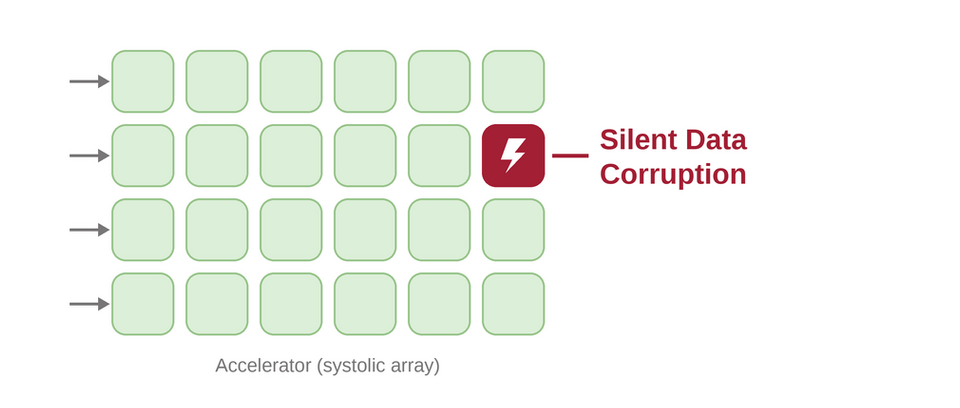
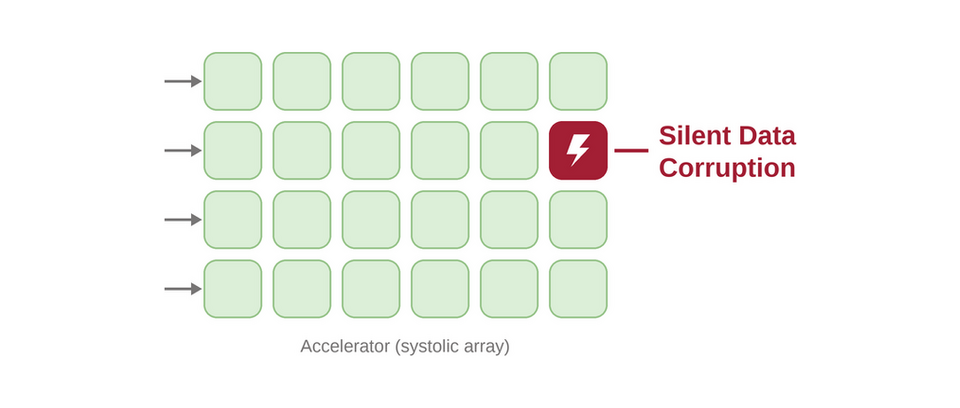
Deploying to gh-pages from @ AnubhavBhatla/AnubhavBhatla.github.io@274742f20c07c1406184dd31b3ad74bc98d83acc 🚀

Changed region(s): [[0.0625, 0.1176, 0.8438, 0.9118]]

diff --git a/preview_redesign.html b/preview_redesign.html
@@ -1893,7 +1893,17 @@ html {
 }
 
 .projects .card-item .card .row.g-0 {
-  align-items: flex-start;
+  align-items: stretch;
+}
+
+.projects .card-item .card-img {
+  display: flex;
+  align-items: center;
+  justify-content: center;
+}
+
+.projects .card-item .card-img img {
+  width: 100%;
 }
 
 .projects h2.category {
@@ -2226,12 +2236,15 @@ a {
 }
 
 .cv .card .list-group .list-group-item {
-  position: relative;
   border: 0;
   background: transparent;
+}
+
+.cv .card .list-group .list-group-item:not(:has(.row)) {
+  position: relative;
   padding: 0.4rem 0.5rem 0.4rem 1.5rem;
 }
-.cv .card .list-group .list-group-item::before {
+.cv .card .list-group .list-group-item:not(:has(.row))::before {
   content: "";
   position: absolute;
   left: 0.45rem;

diff --git a/assets/css/main.css b/assets/css/main.css
@@ -14,4 +14,4 @@
  * Font Awesome Free 6.4.0 by @fontawesome - https://fontawesome.com
  * License - https://fontawesome.com/license/free (Icons: CC BY 4.0, Fonts: SIL OFL 1.1, Code: MIT License)
  * Copyright 2023 Fonticons, Inc.
- */:root{--fa-style-family-classic:'Font Awesome 6 Free';--fa-font-regular:normal 400 1em/1 'Font Awesome 6 Free'}@font-face{font-family:"Font Awesome 6 Free";font-style:normal;font-weight:400;font-display:block;src:url("../webfonts/fa-regular-400.woff2") format("woff2"),url("../webfonts/fa-regular-400.ttf") format("truetype")}.far{font-weight:400}body{font-family:"Inter",-apple-system,"Segoe UI",Roboto,Helvetica,Arial,sans-serif;font-feature-settings:"cv02","cv03","cv04","cv11";-webkit-font-smoothing:antialiased;-moz-osx-font-smoothing:grayscale;letter-spacing:-0.003em}h1,h2,h3,h4,h5,h6,.post-title,.navbar-brand,.publications h1,.header-bar h1{font-family:"Lora",Georgia,"Times New Roman",serif;font-weight:600;letter-spacing:-0.01em}p,li,.desc,.more-info,.post-meta,.contact-note{font-family:"Inter",-apple-system,"Segoe UI",Roboto,sans-serif}p{line-height:1.7}html{scroll-behavior:smooth}::selection{background:rgba(163,31,52,.18)}::-webkit-scrollbar{width:10px;height:10px}::-webkit-scrollbar-track{background:rgba(0,0,0,0)}::-webkit-scrollbar-thumb{background:rgba(163,31,52,.4);border-radius:6px;border:2px solid rgba(0,0,0,0);background-clip:padding-box}::-webkit-scrollbar-thumb:hover{background:rgba(163,31,52,.65);background-clip:padding-box}@keyframes fadeUp{from{opacity:0;transform:translateY(18px)}to{opacity:1;transform:none}}@keyframes fadeIn{from{opacity:0}to{opacity:1}}.post{animation:fadeUp .6s cubic-bezier(0.22,0.61,0.36,1) both}.post-header{animation:fadeUp .6s cubic-bezier(0.22,0.61,0.36,1) both}.post-header{margin-bottom:1.75rem}.post-header .post-title{font-size:2.9rem;line-height:1.12;margin-bottom:.35rem}@media(max-width:576px){.post-header .post-title{font-size:2.2rem}}.post-header .post-title::after{content:"";display:block;width:60px;height:4px;margin-top:.7rem;background:var(--global-theme-color);border-radius:4px}.post-header .desc{font-family:"Inter",sans-serif;text-transform:uppercase;letter-spacing:.13em;font-size:.8rem;font-weight:500;color:var(--global-text-color-light);margin-top:.85rem}.profile img{border-radius:14px;box-shadow:0 0 0 1px rgba(163,31,52,.1),0 12px 30px rgba(0,0,0,.12);transition:transform .4s cubic-bezier(0.22,0.61,0.36,1),box-shadow .4s ease}.profile img:hover{transform:translateY(-5px) scale(1.01);box-shadow:0 0 0 1px rgba(163,31,52,.22),0 20px 44px rgba(0,0,0,.2)}.profile .more-info{font-family:"Inter",sans-serif!important;font-size:.8rem;letter-spacing:.02em;color:var(--global-text-color-light);margin-top:.75rem}.news{margin-top:.5rem}.news .table{width:100%;margin-bottom:0}.news .table tr{display:grid;grid-template-columns:104px 1fr;column-gap:18px;align-items:baseline;padding:14px 14px;border-radius:12px;border-bottom:1px solid var(--global-divider-color);transition:background-color .2s ease,transform .2s ease;animation:fadeUp .5s ease both}.news .table tr:hover{background-color:rgba(163,31,52,.05);transform:translateX(4px)}.news .table tr:last-child{border-bottom:0}.news .table th,.news .table td{border:0!important;padding:0;background:rgba(0,0,0,0);vertical-align:baseline}.news .table th[scope=row]{font-family:"Inter",sans-serif;font-weight:600;font-size:.72rem;line-height:1.5;letter-spacing:.04em;text-transform:uppercase;color:var(--global-theme-color);white-space:nowrap;position:relative;padding-left:16px}.news .table th[scope=row]::before{content:"";position:absolute;left:0;top:.45em;width:7px;height:7px;border-radius:50%;background:var(--global-theme-color);box-shadow:0 0 0 3px rgba(163,31,52,.15)}.news .table td{font-size:.95rem;line-height:1.55;color:var(--global-text-color)}.news .table tr:nth-child(1){animation-delay:.06s}.news .table tr:nth-child(2){animation-delay:.12s}.news .table tr:nth-child(3){animation-delay:.18s}.news .table tr:nth-child(4){animation-delay:.24s}.news .table tr:nth-child(5){animation-delay:.3s}.news .table tr:nth-child(6){animation-delay:.36s}.news-more{margin-top:.6rem;text-align:right;font-size:.85rem;font-weight:500}.news-more a{color:var(--global-theme-color);text-decoration:none}.news-more a:hover{text-decoration:underline}.card{border:1px solid var(--global-divider-color);border-radius:14px;overflow:hidden;box-shadow:0 1px 3px rgba(0,0,0,.05);transition:transform .32s cubic-bezier(0.22,0.61,0.36,1),box-shadow .32s ease}.card img{transition:transform .5s cubic-bezier(0.22,0.61,0.36,1)}.card:hover{transform:translateY(-6px);box-shadow:0 18px 38px rgba(0,0,0,.16)}.card:hover img{transform:scale(1.045)}.cv .card:hover{transform:none;box-shadow:0 10px 26px rgba(0,0,0,.1)}.cv .card:hover img{transform:none}.card .card-title{font-family:"Lora",Georgia,serif}.projects .card-item .card .row.g-0{align-items:flex-start}.projects h2.category{font-family:"Inter",sans-serif;text-transform:uppercase;letter-spacing:.1em;font-size:.9rem;font-weight:600;color:var(--global-text-color-light);border-bottom:1px solid var(--global-divider-color)}.publications ol.bibliography li{padding:1rem 1rem;border-radius:12px;transition:background-color .2s ease,box-shadow .2s ease}.publications ol.bibliography li:hover{background-color:rgba(163,31,52,.04);box-shadow:inset 3px 0 0 var(--global-theme-color)}.publications ol.bibliography li .title{font-family:"Lora",Georgia,serif;font-weight:600}.publications h1{letter-spacing:-0.01em}.navbar{opacity:1!important;background-color:hsla(0,0,100%,.72)!important;-webkit-backdrop-filter:saturate(180%) blur(12px);backdrop-filter:saturate(180%) blur(12px);border-bottom:1px solid var(--global-divider-color);box-shadow:0 2px 20px rgba(0,0,0,.04);transition:background-color .3s ease,box-shadow .3s ease}html[data-theme=dark] .navbar{background-color:rgba(28,28,29,.72)!important}.navbar-brand{font-weight:600;letter-spacing:-0.01em}.navbar.navbar-light .navbar-nav .nav-item .nav-link{position:relative;transition:color .2s ease}.navbar.navbar-light .navbar-nav .nav-item .nav-link::after{content:"";position:absolute;left:.5rem;right:.5rem;bottom:3px;height:2px;border-radius:2px;background:var(--global-theme-color);transform:scaleX(0);transform-origin:left center;transition:transform .25s cubic-bezier(0.22,0.61,0.36,1)}.navbar.navbar-light .navbar-nav .nav-item .nav-link:hover::after,.navbar.navbar-light .navbar-nav .nav-item.active>.nav-link::after{transform:scaleX(1)}.social .contact-icons a{display:inline-block;transition:transform .2s ease}.social .contact-icons a:hover{transform:translateY(-3px)}a{transition:color .18s ease}.publications ol.bibliography li .links a.btn{border-radius:999px;font-size:.8rem;font-weight:500;transition:all .2s ease}.header-bar h1{font-size:3.2rem;color:var(--global-theme-color)}.header-bar h2{font-family:"Inter",sans-serif;font-weight:400;font-size:1.1rem;color:var(--global-text-color-light)}.tag-category-list ul{display:flex;flex-wrap:wrap;gap:8px;justify-content:center;align-items:center}.tag-category-list ul p{display:none}.tag-category-list ul li{display:inline-flex;align-items:center;padding:4px 14px;border:1px solid var(--global-divider-color);border-radius:999px;transition:background-color .2s ease,border-color .2s ease}.tag-category-list ul li:hover{border-color:var(--global-theme-color);background-color:rgba(163,31,52,.06)}.tag-category-list ul li a{color:var(--global-text-color);text-decoration:none}.tag-category-list ul li a:hover{color:var(--global-theme-color)}.post-list li{border:1px solid var(--global-divider-color);border-bottom:1px solid var(--global-divider-color);border-radius:14px;background-color:var(--global-card-bg-color);padding:1.4rem 1.5rem;margin-bottom:1.25rem;box-shadow:0 1px 3px rgba(0,0,0,.04);transition:transform .28s cubic-bezier(0.22,0.61,0.36,1),box-shadow .28s ease,border-color .28s ease}.post-list li:hover{transform:translateY(-4px);box-shadow:0 16px 34px rgba(0,0,0,.12);border-color:rgba(163,31,52,.35)}.post-list li h3{margin-top:0}.post-list li a.post-title{font-family:"Lora",Georgia,serif;font-size:1.5rem;color:var(--global-text-color)}.post-list li a.post-title:hover{color:var(--global-theme-color)}.post-list li .post-meta{font-family:"Inter",sans-serif}.course-grid{display:grid;grid-template-columns:repeat(auto-fill,minmax(258px,1fr));gap:1rem;margin:2rem 0}.course-card{position:relative;border:1px solid var(--global-divider-color);border-radius:14px;background-color:var(--global-card-bg-color);padding:1.3rem 1.4rem 1.3rem 1.6rem;overflow:hidden;box-shadow:0 1px 3px rgba(0,0,0,.04);transition:transform .28s cubic-bezier(0.22,0.61,0.36,1),box-shadow .28s ease,border-color .28s ease}.course-card::before{content:"";position:absolute;left:0;top:0;bottom:0;width:4px;background:var(--global-theme-color)}.course-card:hover{transform:translateY(-4px);box-shadow:0 16px 32px rgba(0,0,0,.12);border-color:rgba(163,31,52,.3)}.course-card .course-year{display:inline-block;font-family:"Inter",sans-serif;font-weight:600;font-size:.7rem;letter-spacing:.05em;text-transform:uppercase;color:var(--global-theme-color);background:rgba(163,31,52,.08);border-radius:999px;padding:3px 10px;margin-bottom:.7rem}.course-card .course-code{font-family:"Inter",sans-serif;font-weight:600;font-size:.78rem;letter-spacing:.04em;color:var(--global-text-color-light);margin:0 0 .15rem}.course-card .course-name{font-family:"Lora",Georgia,serif;font-weight:600;font-size:1.12rem;line-height:1.25;margin:0 0 .6rem;color:var(--global-text-color)}.course-card .course-meta{font-family:"Inter",sans-serif;font-size:.82rem;color:var(--global-text-color-light);margin:0}.course-catalog{margin-top:1rem}.course-catalog hr{display:none}.course-catalog h2{font-family:"Lora",Georgia,serif;font-size:1.7rem;margin-top:2.25rem;margin-bottom:.5rem}.course-catalog h3{font-family:"Inter",sans-serif;text-transform:uppercase;letter-spacing:.08em;font-size:.92rem;font-weight:600;color:var(--global-text-color-light);margin-top:1.5rem;margin-bottom:.25rem}.course-catalog h4{font-family:"Inter",sans-serif;font-size:.82rem;font-weight:600;letter-spacing:.04em;color:var(--global-text-color-light);margin-top:1rem}.course-catalog ul{list-style:none;padding:0;margin:.6rem 0 0;display:grid;grid-template-columns:repeat(auto-fill,minmax(248px,1fr));gap:10px}.course-catalog ul li{border:1px solid var(--global-divider-color);border-radius:10px;background-color:var(--global-card-bg-color);padding:10px 14px;font-size:.88rem;line-height:1.4;transition:transform .2s ease,box-shadow .2s ease,border-color .2s ease}.course-catalog ul li:hover{transform:translateY(-2px);box-shadow:0 6px 16px rgba(0,0,0,.08);border-color:rgba(163,31,52,.4)}.course-catalog ul li a{font-weight:600;color:var(--global-theme-color);text-decoration:none}.course-catalog ul li a:hover{text-decoration:none}.cv .card .card-title{position:relative;font-size:1.35rem;padding-bottom:.5rem;margin-bottom:.85rem}.cv .card .card-title::after{content:"";position:absolute;left:0;bottom:0;width:42px;height:3px;border-radius:3px;background:var(--global-theme-color)}.cv ul.timeline li::before{background:var(--global-divider-color)}.cv .card ul.items{list-style:none;padding-left:1.3rem;margin-bottom:0}.cv .card ul.items>li{position:relative;margin-bottom:.4rem;line-height:1.55}.cv .card ul.items>li::before{content:"";position:absolute;left:-1.05rem;top:.62em;width:6px;height:6px;border-radius:50%;background:var(--global-theme-color)}.cv .card .list-group .list-group-item{position:relative;border:0;background:rgba(0,0,0,0);padding:.4rem .5rem .4rem 1.5rem}.cv .card .list-group .list-group-item::before{content:"";position:absolute;left:.45rem;top:.95em;width:6px;height:6px;border-radius:50%;background:var(--global-theme-color)}.skill-cards{display:grid;grid-template-columns:repeat(auto-fit,minmax(210px,1fr));gap:12px}.skill-card{border:1px solid var(--global-divider-color);border-radius:12px;background-color:var(--global-card-bg-color);padding:.9rem 1rem}.skill-card .skill-head{display:flex;align-items:center;gap:8px;font-family:"Lora",Georgia,serif;font-weight:600;color:var(--global-text-color);margin-bottom:.45rem}.skill-card .skill-head i{color:var(--global-theme-color)}.skill-card p{margin:0;font-size:.85rem;line-height:1.5;color:var(--global-text-color-light)}.profile .more-info .profile-location{display:block;margin:0 0 .65rem;text-align:center;font-size:.8rem;color:var(--global-text-color-light)}.profile-actions{display:flex;flex-wrap:wrap;gap:8px;justify-content:center}.profile-actions a{display:inline-flex;align-items:center;gap:6px;font-size:.8rem;font-weight:500;color:var(--global-theme-color);border:1px solid var(--global-theme-color);border-radius:999px;padding:5px 12px;text-decoration:none;transition:background-color .2s ease,color .2s ease}.profile-actions a:hover{background-color:var(--global-theme-color);color:#fff;text-decoration:none}.profile-actions a i{color:inherit}.ri-block{clear:both}.research-interests{display:grid;grid-template-columns:repeat(auto-fit,minmax(190px,1fr));gap:14px;margin:1.25rem 0 1.75rem}@media(max-width:576px){.research-interests{grid-template-columns:1fr}}.research-interests .ri-card{border:1px solid var(--global-divider-color);border-radius:14px;background-color:var(--global-card-bg-color);padding:1.15rem 1.15rem;box-shadow:0 1px 3px rgba(0,0,0,.04);transition:transform .28s cubic-bezier(0.22,0.61,0.36,1),box-shadow .28s ease,border-color .28s ease}.research-interests .ri-card:hover{transform:translateY(-4px);box-shadow:0 14px 30px rgba(0,0,0,.12);border-color:rgba(163,31,52,.3)}.research-interests .ri-icon{display:inline-flex;align-items:center;justify-content:center;width:40px;height:40px;border-radius:10px;background:rgba(163,31,52,.09);color:var(--global-theme-color);font-size:1.15rem;margin-bottom:.8rem}.research-interests .ri-icon i{color:var(--global-theme-color)}.research-interests .ri-title{display:block;font-family:"Lora",Georgia,serif;font-weight:600;font-size:1.02rem;line-height:1.25;color:var(--global-text-color)}.research-groups{clear:both;max-width:640px;margin:.5rem 0 1.25rem}.research-groups .rg-item{position:relative;padding:13px 0 13px 22px;border-bottom:1px solid var(--global-divider-color)}.research-groups .rg-item:last-child{border-bottom:0}.research-groups .rg-item::before{content:"▸";position:absolute;left:0;top:13px;color:var(--global-theme-color);font-size:.95rem;line-height:1.45}.research-groups .rg-name{font-size:1rem;line-height:1.45;color:var(--global-text-color)}.research-groups .rg-name a{font-weight:600;color:var(--global-theme-color);text-decoration:none}.research-groups .rg-name a:hover{text-decoration:underline}.research-groups .rg-meta{font-size:.82rem;color:var(--global-text-color-light);margin-top:2px}.research-groups .rg-meta a{color:var(--global-text-color-light);text-decoration:none}.research-groups .rg-meta a:hover{color:var(--global-theme-color)}.course-catalog ul li strong{color:var(--global-theme-color);font-weight:600}.publications ol.bibliography li .preview{border-radius:6px;transition:transform .3s cubic-bezier(0.22,0.61,0.36,1)}.publications ol.bibliography li:hover .preview{transform:scale(1.03)}footer.fixed-bottom .container,footer.sticky-bottom{font-family:"Inter",sans-serif;letter-spacing:.01em}.cv .table-cv .badge,.cv .badge-toc{background-color:var(--global-theme-color)!important;color:#fff!important;white-space:nowrap;min-width:0!important;font-size:.7rem;font-weight:600!important;letter-spacing:.02em;padding:.32rem .6rem;border-radius:6px;display:inline-block}.cv .card .list-group-item>.row{display:flex;flex-wrap:nowrap;align-items:flex-start}.cv .card .list-group-item>.row>.col-md-2.text-center{flex:0 0 auto;width:auto!important;max-width:none;min-width:100px;padding-right:0;text-align:left!important}.cv .card .list-group-item>.row>.col-md-10{flex:1 1 auto;max-width:none;margin-top:0!important}.error-page{text-align:center;padding:3.5rem 1rem 5rem}.error-page .error-code{font-family:"Lora",Georgia,serif;font-weight:700;font-size:7rem;line-height:1;color:var(--global-theme-color);margin-bottom:.5rem}.error-page .error-msg{font-size:1.15rem;color:var(--global-text-color-light);margin-bottom:1.75rem}.error-page .error-home{display:inline-block;font-weight:500;color:var(--global-theme-color);border:1px solid var(--global-theme-color);border-radius:999px;padding:8px 22px;text-decoration:none;transition:background-color .2s ease,color .2s ease}.error-page .error-home:hover{background-color:var(--global-theme-color);color:#fff;text-decoration:none}@media(prefers-reduced-motion:reduce){html{scroll-behavior:auto}*,*::before,*::after{animation-duration:.001ms!important;animation-delay:0!important;transition-duration:.001ms!important}.post,.post-header,.news .table tr{opacity:1!important;transform:none!important}}
+ */:root{--fa-style-family-classic:'Font Awesome 6 Free';--fa-font-regular:normal 400 1em/1 'Font Awesome 6 Free'}@font-face{font-family:"Font Awesome 6 Free";font-style:normal;font-weight:400;font-display:block;src:url("../webfonts/fa-regular-400.woff2") format("woff2"),url("../webfonts/fa-regular-400.ttf") format("truetype")}.far{font-weight:400}body{font-family:"Inter",-apple-system,"Segoe UI",Roboto,Helvetica,Arial,sans-serif;font-feature-settings:"cv02","cv03","cv04","cv11";-webkit-font-smoothing:antialiased;-moz-osx-font-smoothing:grayscale;letter-spacing:-0.003em}h1,h2,h3,h4,h5,h6,.post-title,.navbar-brand,.publications h1,.header-bar h1{font-family:"Lora",Georgia,"Times New Roman",serif;font-weight:600;letter-spacing:-0.01em}p,li,.desc,.more-info,.post-meta,.contact-note{font-family:"Inter",-apple-system,"Segoe UI",Roboto,sans-serif}p{line-height:1.7}html{scroll-behavior:smooth}::selection{background:rgba(163,31,52,.18)}::-webkit-scrollbar{width:10px;height:10px}::-webkit-scrollbar-track{background:rgba(0,0,0,0)}::-webkit-scrollbar-thumb{background:rgba(163,31,52,.4);border-radius:6px;border:2px solid rgba(0,0,0,0);background-clip:padding-box}::-webkit-scrollbar-thumb:hover{background:rgba(163,31,52,.65);background-clip:padding-box}@keyframes fadeUp{from{opacity:0;transform:translateY(18px)}to{opacity:1;transform:none}}@keyframes fadeIn{from{opacity:0}to{opacity:1}}.post{animation:fadeUp .6s cubic-bezier(0.22,0.61,0.36,1) both}.post-header{animation:fadeUp .6s cubic-bezier(0.22,0.61,0.36,1) both}.post-header{margin-bottom:1.75rem}.post-header .post-title{font-size:2.9rem;line-height:1.12;margin-bottom:.35rem}@media(max-width:576px){.post-header .post-title{font-size:2.2rem}}.post-header .post-title::after{content:"";display:block;width:60px;height:4px;margin-top:.7rem;background:var(--global-theme-color);border-radius:4px}.post-header .desc{font-family:"Inter",sans-serif;text-transform:uppercase;letter-spacing:.13em;font-size:.8rem;font-weight:500;color:var(--global-text-color-light);margin-top:.85rem}.profile img{border-radius:14px;box-shadow:0 0 0 1px rgba(163,31,52,.1),0 12px 30px rgba(0,0,0,.12);transition:transform .4s cubic-bezier(0.22,0.61,0.36,1),box-shadow .4s ease}.profile img:hover{transform:translateY(-5px) scale(1.01);box-shadow:0 0 0 1px rgba(163,31,52,.22),0 20px 44px rgba(0,0,0,.2)}.profile .more-info{font-family:"Inter",sans-serif!important;font-size:.8rem;letter-spacing:.02em;color:var(--global-text-color-light);margin-top:.75rem}.news{margin-top:.5rem}.news .table{width:100%;margin-bottom:0}.news .table tr{display:grid;grid-template-columns:104px 1fr;column-gap:18px;align-items:baseline;padding:14px 14px;border-radius:12px;border-bottom:1px solid var(--global-divider-color);transition:background-color .2s ease,transform .2s ease;animation:fadeUp .5s ease both}.news .table tr:hover{background-color:rgba(163,31,52,.05);transform:translateX(4px)}.news .table tr:last-child{border-bottom:0}.news .table th,.news .table td{border:0!important;padding:0;background:rgba(0,0,0,0);vertical-align:baseline}.news .table th[scope=row]{font-family:"Inter",sans-serif;font-weight:600;font-size:.72rem;line-height:1.5;letter-spacing:.04em;text-transform:uppercase;color:var(--global-theme-color);white-space:nowrap;position:relative;padding-left:16px}.news .table th[scope=row]::before{content:"";position:absolute;left:0;top:.45em;width:7px;height:7px;border-radius:50%;background:var(--global-theme-color);box-shadow:0 0 0 3px rgba(163,31,52,.15)}.news .table td{font-size:.95rem;line-height:1.55;color:var(--global-text-color)}.news .table tr:nth-child(1){animation-delay:.06s}.news .table tr:nth-child(2){animation-delay:.12s}.news .table tr:nth-child(3){animation-delay:.18s}.news .table tr:nth-child(4){animation-delay:.24s}.news .table tr:nth-child(5){animation-delay:.3s}.news .table tr:nth-child(6){animation-delay:.36s}.news-more{margin-top:.6rem;text-align:right;font-size:.85rem;font-weight:500}.news-more a{color:var(--global-theme-color);text-decoration:none}.news-more a:hover{text-decoration:underline}.card{border:1px solid var(--global-divider-color);border-radius:14px;overflow:hidden;box-shadow:0 1px 3px rgba(0,0,0,.05);transition:transform .32s cubic-bezier(0.22,0.61,0.36,1),box-shadow .32s ease}.card img{transition:transform .5s cubic-bezier(0.22,0.61,0.36,1)}.card:hover{transform:translateY(-6px);box-shadow:0 18px 38px rgba(0,0,0,.16)}.card:hover img{transform:scale(1.045)}.cv .card:hover{transform:none;box-shadow:0 10px 26px rgba(0,0,0,.1)}.cv .card:hover img{transform:none}.card .card-title{font-family:"Lora",Georgia,serif}.projects .card-item .card .row.g-0{align-items:stretch}.projects .card-item .card-img{display:flex;align-items:center;justify-content:center}.projects .card-item .card-img img{width:100%}.projects h2.category{font-family:"Inter",sans-serif;text-transform:uppercase;letter-spacing:.1em;font-size:.9rem;font-weight:600;color:var(--global-text-color-light);border-bottom:1px solid var(--global-divider-color)}.publications ol.bibliography li{padding:1rem 1rem;border-radius:12px;transition:background-color .2s ease,box-shadow .2s ease}.publications ol.bibliography li:hover{background-color:rgba(163,31,52,.04);box-shadow:inset 3px 0 0 var(--global-theme-color)}.publications ol.bibliography li .title{font-family:"Lora",Georgia,serif;font-weight:600}.publications h1{letter-spacing:-0.01em}.navbar{opacity:1!important;background-color:hsla(0,0,100%,.72)!important;-webkit-backdrop-filter:saturate(180%) blur(12px);backdrop-filter:saturate(180%) blur(12px);border-bottom:1px solid var(--global-divider-color);box-shadow:0 2px 20px rgba(0,0,0,.04);transition:background-color .3s ease,box-shadow .3s ease}html[data-theme=dark] .navbar{background-color:rgba(28,28,29,.72)!important}.navbar-brand{font-weight:600;letter-spacing:-0.01em}.navbar.navbar-light .navbar-nav .nav-item .nav-link{position:relative;transition:color .2s ease}.navbar.navbar-light .navbar-nav .nav-item .nav-link::after{content:"";position:absolute;left:.5rem;right:.5rem;bottom:3px;height:2px;border-radius:2px;background:var(--global-theme-color);transform:scaleX(0);transform-origin:left center;transition:transform .25s cubic-bezier(0.22,0.61,0.36,1)}.navbar.navbar-light .navbar-nav .nav-item .nav-link:hover::after,.navbar.navbar-light .navbar-nav .nav-item.active>.nav-link::after{transform:scaleX(1)}.social .contact-icons a{display:inline-block;transition:transform .2s ease}.social .contact-icons a:hover{transform:translateY(-3px)}a{transition:color .18s ease}.publications ol.bibliography li .links a.btn{border-radius:999px;font-size:.8rem;font-weight:500;transition:all .2s ease}.header-bar h1{font-size:3.2rem;color:var(--global-theme-color)}.header-bar h2{font-family:"Inter",sans-serif;font-weight:400;font-size:1.1rem;color:var(--global-text-color-light)}.tag-category-list ul{display:flex;flex-wrap:wrap;gap:8px;justify-content:center;align-items:center}.tag-category-list ul p{display:none}.tag-category-list ul li{display:inline-flex;align-items:center;padding:4px 14px;border:1px solid var(--global-divider-color);border-radius:999px;transition:background-color .2s ease,border-color .2s ease}.tag-category-list ul li:hover{border-color:var(--global-theme-color);background-color:rgba(163,31,52,.06)}.tag-category-list ul li a{color:var(--global-text-color);text-decoration:none}.tag-category-list ul li a:hover{color:var(--global-theme-color)}.post-list li{border:1px solid var(--global-divider-color);border-bottom:1px solid var(--global-divider-color);border-radius:14px;background-color:var(--global-card-bg-color);padding:1.4rem 1.5rem;margin-bottom:1.25rem;box-shadow:0 1px 3px rgba(0,0,0,.04);transition:transform .28s cubic-bezier(0.22,0.61,0.36,1),box-shadow .28s ease,border-color .28s ease}.post-list li:hover{transform:translateY(-4px);box-shadow:0 16px 34px rgba(0,0,0,.12);border-color:rgba(163,31,52,.35)}.post-list li h3{margin-top:0}.post-list li a.post-title{font-family:"Lora",Georgia,serif;font-size:1.5rem;color:var(--global-text-color)}.post-list li a.post-title:hover{color:var(--global-theme-color)}.post-list li .post-meta{font-family:"Inter",sans-serif}.course-grid{display:grid;grid-template-columns:repeat(auto-fill,minmax(258px,1fr));gap:1rem;margin:2rem 0}.course-card{position:relative;border:1px solid var(--global-divider-color);border-radius:14px;background-color:var(--global-card-bg-color);padding:1.3rem 1.4rem 1.3rem 1.6rem;overflow:hidden;box-shadow:0 1px 3px rgba(0,0,0,.04);transition:transform .28s cubic-bezier(0.22,0.61,0.36,1),box-shadow .28s ease,border-color .28s ease}.course-card::before{content:"";position:absolute;left:0;top:0;bottom:0;width:4px;background:var(--global-theme-color)}.course-card:hover{transform:translateY(-4px);box-shadow:0 16px 32px rgba(0,0,0,.12);border-color:rgba(163,31,52,.3)}.course-card .course-year{display:inline-block;font-family:"Inter",sans-serif;font-weight:600;font-size:.7rem;letter-spacing:.05em;text-transform:uppercase;color:var(--global-theme-color);background:rgba(163,31,52,.08);border-radius:999px;padding:3px 10px;margin-bottom:.7rem}.course-card .course-code{font-family:"Inter",sans-serif;font-weight:600;font-size:.78rem;letter-spacing:.04em;color:var(--global-text-color-light);margin:0 0 .15rem}.course-card .course-name{font-family:"Lora",Georgia,serif;font-weight:600;font-size:1.12rem;line-height:1.25;margin:0 0 .6rem;color:var(--global-text-color)}.course-card .course-meta{font-family:"Inter",sans-serif;font-size:.82rem;color:var(--global-text-color-light);margin:0}.course-catalog{margin-top:1rem}.course-catalog hr{display:none}.course-catalog h2{font-family:"Lora",Georgia,serif;font-size:1.7rem;margin-top:2.25rem;margin-bottom:.5rem}.course-catalog h3{font-family:"Inter",sans-serif;text-transform:uppercase;letter-spacing:.08em;font-size:.92rem;font-weight:600;color:var(--global-text-color-light);margin-top:1.5rem;margin-bottom:.25rem}.course-catalog h4{font-family:"Inter",sans-serif;font-size:.82rem;font-weight:600;letter-spacing:.04em;color:var(--global-text-color-light);margin-top:1rem}.course-catalog ul{list-style:none;padding:0;margin:.6rem 0 0;display:grid;grid-template-columns:repeat(auto-fill,minmax(248px,1fr));gap:10px}.course-catalog ul li{border:1px solid var(--global-divider-color);border-radius:10px;background-color:var(--global-card-bg-color);padding:10px 14px;font-size:.88rem;line-height:1.4;transition:transform .2s ease,box-shadow .2s ease,border-color .2s ease}.course-catalog ul li:hover{transform:translateY(-2px);box-shadow:0 6px 16px rgba(0,0,0,.08);border-color:rgba(163,31,52,.4)}.course-catalog ul li a{font-weight:600;color:var(--global-theme-color);text-decoration:none}.course-catalog ul li a:hover{text-decoration:none}.cv .card .card-title{position:relative;font-size:1.35rem;padding-bottom:.5rem;margin-bottom:.85rem}.cv .card .card-title::after{content:"";position:absolute;left:0;bottom:0;width:42px;height:3px;border-radius:3px;background:var(--global-theme-color)}.cv ul.timeline li::before{background:var(--global-divider-color)}.cv .card ul.items{list-style:none;padding-left:1.3rem;margin-bottom:0}.cv .card ul.items>li{position:relative;margin-bottom:.4rem;line-height:1.55}.cv .card ul.items>li::before{content:"";position:absolute;left:-1.05rem;top:.62em;width:6px;height:6px;border-radius:50%;background:var(--global-theme-color)}.cv .card .list-group .list-group-item{border:0;background:rgba(0,0,0,0)}.cv .card .list-group .list-group-item:not(:has(.row)){position:relative;padding:.4rem .5rem .4rem 1.5rem}.cv .card .list-group .list-group-item:not(:has(.row))::before{content:"";position:absolute;left:.45rem;top:.95em;width:6px;height:6px;border-radius:50%;background:var(--global-theme-color)}.skill-cards{display:grid;grid-template-columns:repeat(auto-fit,minmax(210px,1fr));gap:12px}.skill-card{border:1px solid var(--global-divider-color);border-radius:12px;background-color:var(--global-card-bg-color);padding:.9rem 1rem}.skill-card .skill-head{display:flex;align-items:center;gap:8px;font-family:"Lora",Georgia,serif;font-weight:600;color:var(--global-text-color);margin-bottom:.45rem}.skill-card .skill-head i{color:var(--global-theme-color)}.skill-card p{margin:0;font-size:.85rem;line-height:1.5;color:var(--global-text-color-light)}.profile .more-info .profile-location{display:block;margin:0 0 .65rem;text-align:center;font-size:.8rem;color:var(--global-text-color-light)}.profile-actions{display:flex;flex-wrap:wrap;gap:8px;justify-content:center}.profile-actions a{display:inline-flex;align-items:center;gap:6px;font-size:.8rem;font-weight:500;color:var(--global-theme-color);border:1px solid var(--global-theme-color);border-radius:999px;padding:5px 12px;text-decoration:none;transition:background-color .2s ease,color .2s ease}.profile-actions a:hover{background-color:var(--global-theme-color);color:#fff;text-decoration:none}.profile-actions a i{color:inherit}.ri-block{clear:both}.research-interests{display:grid;grid-template-columns:repeat(auto-fit,minmax(190px,1fr));gap:14px;margin:1.25rem 0 1.75rem}@media(max-width:576px){.research-interests{grid-template-columns:1fr}}.research-interests .ri-card{border:1px solid var(--global-divider-color);border-radius:14px;background-color:var(--global-card-bg-color);padding:1.15rem 1.15rem;box-shadow:0 1px 3px rgba(0,0,0,.04);transition:transform .28s cubic-bezier(0.22,0.61,0.36,1),box-shadow .28s ease,border-color .28s ease}.research-interests .ri-card:hover{transform:translateY(-4px);box-shadow:0 14px 30px rgba(0,0,0,.12);border-color:rgba(163,31,52,.3)}.research-interests .ri-icon{display:inline-flex;align-items:center;justify-content:center;width:40px;height:40px;border-radius:10px;background:rgba(163,31,52,.09);color:var(--global-theme-color);font-size:1.15rem;margin-bottom:.8rem}.research-interests .ri-icon i{color:var(--global-theme-color)}.research-interests .ri-title{display:block;font-family:"Lora",Georgia,serif;font-weight:600;font-size:1.02rem;line-height:1.25;color:var(--global-text-color)}.research-groups{clear:both;max-width:640px;margin:.5rem 0 1.25rem}.research-groups .rg-item{position:relative;padding:13px 0 13px 22px;border-bottom:1px solid var(--global-divider-color)}.research-groups .rg-item:last-child{border-bottom:0}.research-groups .rg-item::before{content:"▸";position:absolute;left:0;top:13px;color:var(--global-theme-color);font-size:.95rem;line-height:1.45}.research-groups .rg-name{font-size:1rem;line-height:1.45;color:var(--global-text-color)}.research-groups .rg-name a{font-weight:600;color:var(--global-theme-color);text-decoration:none}.research-groups .rg-name a:hover{text-decoration:underline}.research-groups .rg-meta{font-size:.82rem;color:var(--global-text-color-light);margin-top:2px}.research-groups .rg-meta a{color:var(--global-text-color-light);text-decoration:none}.research-groups .rg-meta a:hover{color:var(--global-theme-color)}.course-catalog ul li strong{color:var(--global-theme-color);font-weight:600}.publications ol.bibliography li .preview{border-radius:6px;transition:transform .3s cubic-bezier(0.22,0.61,0.36,1)}.publications ol.bibliography li:hover .preview{transform:scale(1.03)}footer.fixed-bottom .container,footer.sticky-bottom{font-family:"Inter",sans-serif;letter-spacing:.01em}.cv .table-cv .badge,.cv .badge-toc{background-color:var(--global-theme-color)!important;color:#fff!important;white-space:nowrap;min-width:0!important;font-size:.7rem;font-weight:600!important;letter-spacing:.02em;padding:.32rem .6rem;border-radius:6px;display:inline-block}.cv .card .list-group-item>.row{display:flex;flex-wrap:nowrap;align-items:flex-start}.cv .card .list-group-item>.row>.col-md-2.text-center{flex:0 0 auto;width:auto!important;max-width:none;min-width:100px;padding-right:0;text-align:left!important}.cv .card .list-group-item>.row>.col-md-10{flex:1 1 auto;max-width:none;margin-top:0!important}.error-page{text-align:center;padding:3.5rem 1rem 5rem}.error-page .error-code{font-family:"Lora",Georgia,serif;font-weight:700;font-size:7rem;line-height:1;color:var(--global-theme-color);margin-bottom:.5rem}.error-page .error-msg{font-size:1.15rem;color:var(--global-text-color-light);margin-bottom:1.75rem}.error-page .error-home{display:inline-block;font-weight:500;color:var(--global-theme-color);border:1px solid var(--global-theme-color);border-radius:999px;padding:8px 22px;text-decoration:none;transition:background-color .2s ease,color .2s ease}.error-page .error-home:hover{background-color:var(--global-theme-color);color:#fff;text-decoration:none}@media(prefers-reduced-motion:reduce){html{scroll-behavior:auto}*,*::before,*::after{animation-duration:.001ms!important;animation-delay:0!important;transition-duration:.001ms!important}.post,.post-header,.news .table tr{opacity:1!important;transform:none!important}}